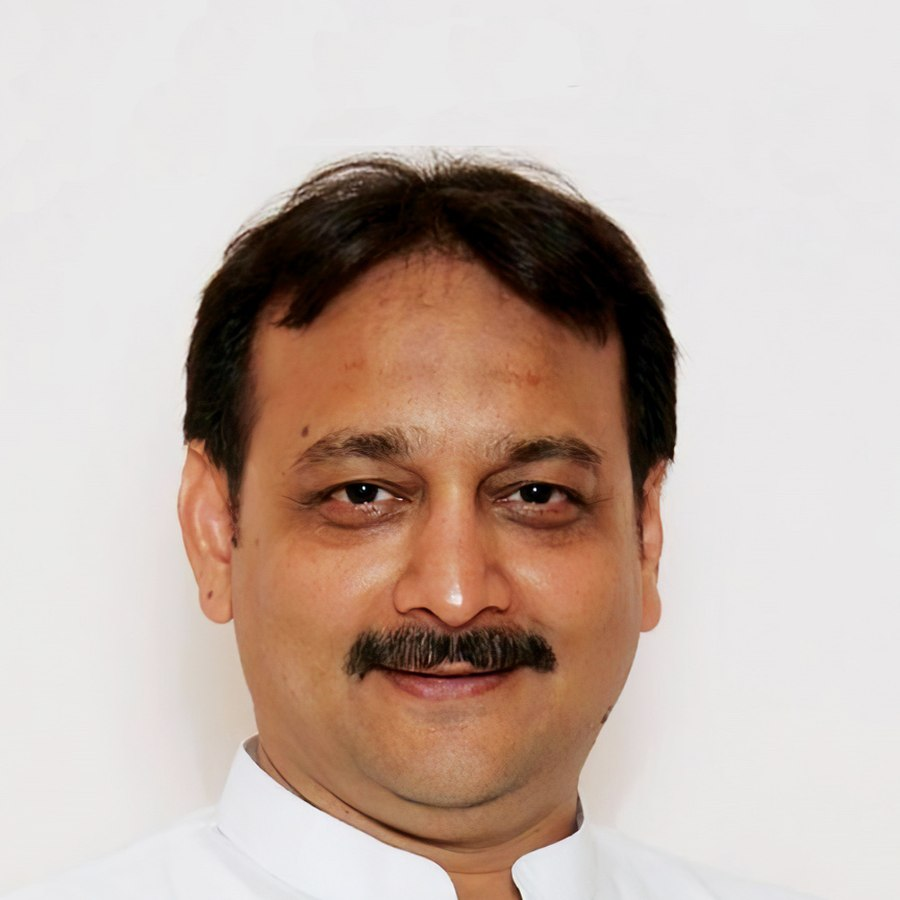
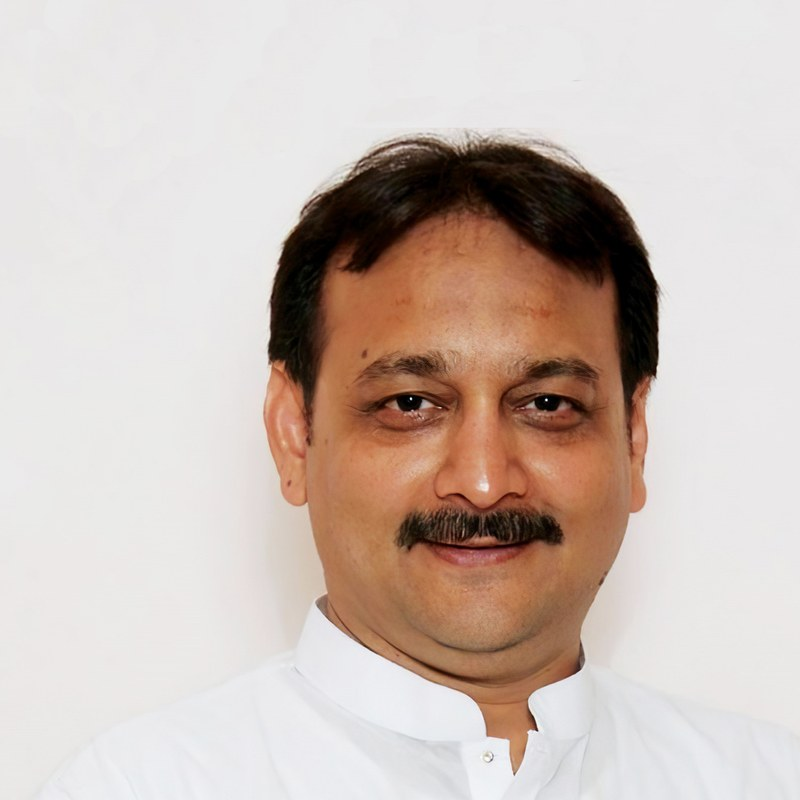
Add files via upload

diff --git a/index.html b/index.html
@@ -25,7 +25,7 @@
 <link href="https://fonts.googleapis.com/css2?family=IBM+Plex+Mono:wght@400;500&amp;family=Instrument+Serif:ital@0;1&amp;family=Poppins:wght@300;400;500&amp;display=swap" rel="stylesheet">
 <link rel="preload" as="image" href="assets/img/logos/rajputana-emblem-512.png">
 <link rel="stylesheet" href="assets/css/base.css?v=0ed642cb">
-<link rel="stylesheet" href="assets/css/home.css?v=5029057a">
+<link rel="stylesheet" href="assets/css/home.css?v=6fd46474">
 <noscript><style>[role="tabpanel"]{display:block!important}.switch__nav{display:none!important}.preloader{display:none!important}body.is-loading{overflow:visible!important}[data-reveal]{opacity:1!important;transform:none!important}</style></noscript>
 </head>
 
@@ -143,36 +143,32 @@
       <p class="principals__label">Currently distributing in India for</p>
       <div class="marquee" data-marquee>
         <ul class="marquee__track">
-          <li><img src="assets/img/partner-brands/cetaphil.png" alt="Cetaphil" data-fallback="text" loading="lazy" height="34"></li>
-          <li><img src="assets/img/partner-brands/sebamed.png" alt="Sebamed" data-fallback="text" loading="lazy" height="34"></li>
-          <li><img src="assets/img/partner-brands/bioderma.png" alt="Bioderma" data-fallback="text" loading="lazy" height="34"></li>
-          <li><img src="assets/img/partner-brands/minimalist.png" alt="Minimalist" data-fallback="text" loading="lazy" height="34"></li>
-          <li><img src="assets/img/partner-brands/loreal.png" alt="L&rsquo;Or&eacute;al" data-fallback="text" loading="lazy" height="34"></li>
-          <li><img src="assets/img/partner-brands/mothercare.png" alt="Mothercare" data-fallback="text" loading="lazy" height="34"></li>
-          <li><img src="assets/img/partner-brands/mothersparsh.png" alt="MotherSparsh" data-fallback="text" loading="lazy" height="34"></li>
-          <li><img src="assets/img/partner-brands/glenmark.png" alt="Glenmark" data-fallback="text" loading="lazy" height="34"></li>
-          <li><img src="assets/img/partner-brands/episoft.png" alt="Episoft" data-fallback="text" loading="lazy" height="34"></li>
-          <li><img src="assets/img/partner-brands/la-shield.png" alt="La Shield" data-fallback="text" loading="lazy" height="34"></li>
-          <li><img src="assets/img/partner-brands/adidas.png" alt="Adidas" data-fallback="text" loading="lazy" height="34"></li>
-          <li><img src="assets/img/partner-brands/david-beckham.png" alt="David Beckham" data-fallback="text" loading="lazy" height="34"></li>
-          <li><img src="assets/img/partner-brands/mercedes.png" alt="Mercedes" data-fallback="text" loading="lazy" height="34"></li>
-          <li><img src="assets/img/partner-brands/flaura-essentials.png" alt="Flaura Essentials" data-fallback="text" loading="lazy" height="34"></li>
+          <li><img src="assets/img/partner-brands/on-dark/cetaphil.png" alt="Cetaphil" data-fallback="text" loading="lazy" height="34"></li>
+          <li><img src="assets/img/partner-brands/on-dark/sebamed.png" alt="Sebamed" data-fallback="text" loading="lazy" height="34"></li>
+          <li><img src="assets/img/partner-brands/on-dark/bioderma.png" alt="Bioderma" data-fallback="text" loading="lazy" height="34"></li>
+          <li><img src="assets/img/partner-brands/on-dark/minimalist.png" alt="Minimalist" data-fallback="text" loading="lazy" height="34"></li>
+          <li><img src="assets/img/partner-brands/on-dark/loreal.png" alt="L&rsquo;Or&eacute;al" data-fallback="text" loading="lazy" height="34"></li>
+          <li><img src="assets/img/partner-brands/on-dark/mothercare.png" alt="Mothercare" data-fallback="text" loading="lazy" height="34"></li>
+          <li><img src="assets/img/partner-brands/on-dark/mothersparsh.png" alt="MotherSparsh" data-fallback="text" loading="lazy" height="34"></li>
+          <li><img src="assets/img/partner-brands/on-dark/glenmark.png" alt="Glenmark" data-fallback="text" loading="lazy" height="34"></li>
+          <li><img src="assets/img/partner-brands/on-dark/episoft.png" alt="Episoft" data-fallback="text" loading="lazy" height="34"></li>
+          <li><img src="assets/img/partner-brands/on-dark/adidas.png" alt="Adidas" data-fallback="text" loading="lazy" height="34"></li>
+          <li><img src="assets/img/partner-brands/on-dark/david-beckham.png" alt="David Beckham" data-fallback="text" loading="lazy" height="34"></li>
+          <li><img src="assets/img/partner-brands/on-dark/flaura-essentials.png" alt="Flaura Essentials" data-fallback="text" loading="lazy" height="34"></li>
         </ul>
         <ul class="marquee__track" aria-hidden="true">
-          <li><img src="assets/img/partner-brands/cetaphil.png" alt="Cetaphil" data-fallback="text" loading="lazy" height="34"></li>
-          <li><img src="assets/img/partner-brands/sebamed.png" alt="Sebamed" data-fallback="text" loading="lazy" height="34"></li>
-          <li><img src="assets/img/partner-brands/bioderma.png" alt="Bioderma" data-fallback="text" loading="lazy" height="34"></li>
-          <li><img src="assets/img/partner-brands/minimalist.png" alt="Minimalist" data-fallback="text" loading="lazy" height="34"></li>
-          <li><img src="assets/img/partner-brands/loreal.png" alt="L&rsquo;Or&eacute;al" data-fallback="text" loading="lazy" height="34"></li>
-          <li><img src="assets/img/partner-brands/mothercare.png" alt="Mothercare" data-fallback="text" loading="lazy" height="34"></li>
-          <li><img src="assets/img/partner-brands/mothersparsh.png" alt="MotherSparsh" data-fallback="text" loading="lazy" height="34"></li>
-          <li><img src="assets/img/partner-brands/glenmark.png" alt="Glenmark" data-fallback="text" loading="lazy" height="34"></li>
-          <li><img src="assets/img/partner-brands/episoft.png" alt="Episoft" data-fallback="text" loading="lazy" height="34"></li>
-          <li><img src="assets/img/partner-brands/la-shield.png" alt="La Shield" data-fallback="text" loading="lazy" height="34"></li>
-          <li><img src="assets/img/partner-brands/adidas.png" alt="Adidas" data-fallback="text" loading="lazy" height="34"></li>
-          <li><img src="assets/img/partner-brands/david-beckham.png" alt="David Beckham" data-fallback="text" loading="lazy" height="34"></li>
-          <li><img src="assets/img/partner-brands/mercedes.png" alt="Mercedes" data-fallback="text" loading="lazy" height="34"></li>
-          <li><img src="assets/img/partner-brands/flaura-essentials.png" alt="Flaura Essentials" data-fallback="text" loading="lazy" height="34"></li>
+          <li><img src="assets/img/partner-brands/on-dark/cetaphil.png" alt="Cetaphil" data-fallback="text" loading="lazy" height="34"></li>
+          <li><img src="assets/img/partner-brands/on-dark/sebamed.png" alt="Sebamed" data-fallback="text" loading="lazy" height="34"></li>
+          <li><img src="assets/img/partner-brands/on-dark/bioderma.png" alt="Bioderma" data-fallback="text" loading="lazy" height="34"></li>
+          <li><img src="assets/img/partner-brands/on-dark/minimalist.png" alt="Minimalist" data-fallback="text" loading="lazy" height="34"></li>
+          <li><img src="assets/img/partner-brands/on-dark/loreal.png" alt="L&rsquo;Or&eacute;al" data-fallback="text" loading="lazy" height="34"></li>
+          <li><img src="assets/img/partner-brands/on-dark/mothercare.png" alt="Mothercare" data-fallback="text" loading="lazy" height="34"></li>
+          <li><img src="assets/img/partner-brands/on-dark/mothersparsh.png" alt="MotherSparsh" data-fallback="text" loading="lazy" height="34"></li>
+          <li><img src="assets/img/partner-brands/on-dark/glenmark.png" alt="Glenmark" data-fallback="text" loading="lazy" height="34"></li>
+          <li><img src="assets/img/partner-brands/on-dark/episoft.png" alt="Episoft" data-fallback="text" loading="lazy" height="34"></li>
+          <li><img src="assets/img/partner-brands/on-dark/adidas.png" alt="Adidas" data-fallback="text" loading="lazy" height="34"></li>
+          <li><img src="assets/img/partner-brands/on-dark/david-beckham.png" alt="David Beckham" data-fallback="text" loading="lazy" height="34"></li>
+          <li><img src="assets/img/partner-brands/on-dark/flaura-essentials.png" alt="Flaura Essentials" data-fallback="text" loading="lazy" height="34"></li>
         </ul>
       </div>
     </div>
@@ -229,37 +225,37 @@
         <div class="switch__panel" id="pan-mt" role="tabpanel" aria-labelledby="ch-mt">
           <p class="switch__note">Chains where a listing is won once and defended every quarter.</p>
           <ul class="switch__list">
-            <li><img src="assets/img/partner-brands/dmart.png" alt="DMart" data-fallback="text" loading="lazy" height="26"></li><li><img src="assets/img/partner-brands/reliance-retail.png" alt="Reliance Retail" data-fallback="text" loading="lazy" height="26"></li><li><img src="assets/img/partner-brands/health-and-glow.png" alt="Health &amp; Glow" data-fallback="text" loading="lazy" height="26"></li><li><img src="assets/img/partner-brands/star-bazar.png" alt="Star Bazar" data-fallback="text" loading="lazy" height="26"></li><li><img src="assets/img/partner-brands/ratnadeep.png" alt="Ratnadeep" data-fallback="text" loading="lazy" height="26"></li><li><img src="assets/img/partner-brands/firstcry.png" alt="FirstCry" data-fallback="text" loading="lazy" height="26"></li><li><img src="assets/img/partner-brands/haiko.png" alt="Haiko" data-fallback="text" loading="lazy" height="26"></li><li><img src="assets/img/partner-brands/me-n-moms.png" alt="Me N Moms" data-fallback="text" loading="lazy" height="26"></li><li><img src="assets/img/partner-brands/metro-candc.png" alt="Metro C&amp;C" data-fallback="text" loading="lazy" height="26"></li><li><img src="assets/img/partner-brands/more.png" alt="More" data-fallback="text" loading="lazy" height="26"></li><li><img src="assets/img/partner-brands/pothys.png" alt="Pothys" data-fallback="text" loading="lazy" height="26"></li>
+            <li>DMart</li><li>Reliance Retail</li><li>Health &amp; Glow</li><li>Star Bazar</li><li>Ratnadeep</li><li>FirstCry</li><li>Haiko</li><li>Me N Moms</li><li>Metro C&amp;C</li><li>More</li><li>Pothys</li>
           </ul>
         </div>
         <div class="switch__panel" id="pan-ec" role="tabpanel" aria-labelledby="ch-ec" hidden>
           <p class="switch__note">Our deepest channel — catalogue, content, pricing and fill rate on fifteen platforms.</p>
           <ul class="switch__list">
-            <li><img src="assets/img/partner-brands/amazon.png" alt="Amazon" data-fallback="text" loading="lazy" height="26"></li><li><img src="assets/img/partner-brands/flipkart.png" alt="Flipkart" data-fallback="text" loading="lazy" height="26"></li><li><img src="assets/img/partner-brands/nykaa.png" alt="Nykaa" data-fallback="text" loading="lazy" height="26"></li><li><img src="assets/img/partner-brands/myntra.png" alt="Myntra" data-fallback="text" loading="lazy" height="26"></li><li><img src="assets/img/partner-brands/tira.png" alt="Tira" data-fallback="text" loading="lazy" height="26"></li><li><img src="assets/img/partner-brands/purplle.png" alt="Purplle" data-fallback="text" loading="lazy" height="26"></li><li><img src="assets/img/partner-brands/tata-cliq.png" alt="Tata Cliq" data-fallback="text" loading="lazy" height="26"></li><li><img src="assets/img/partner-brands/bigbasket.png" alt="BigBasket" data-fallback="text" loading="lazy" height="26"></li><li><img src="assets/img/partner-brands/hopscotch.png" alt="Hopscotch" data-fallback="text" loading="lazy" height="26"></li><li><img src="assets/img/partner-brands/pharmeasy.png" alt="PharmEasy" data-fallback="text" loading="lazy" height="26"></li><li><img src="assets/img/partner-brands/1mg.png" alt="1mg" data-fallback="text" loading="lazy" height="26"></li><li><img src="assets/img/partner-brands/smytten.png" alt="Smytten" data-fallback="text" loading="lazy" height="26"></li><li><img src="assets/img/partner-brands/paytm.png" alt="Paytm" data-fallback="text" loading="lazy" height="26"></li><li><img src="assets/img/partner-brands/dmart-ready.png" alt="DMart Ready" data-fallback="text" loading="lazy" height="26"></li><li><img src="assets/img/partner-brands/ferns-and-petals.png" alt="Ferns &amp; Petals" data-fallback="text" loading="lazy" height="26"></li>
+            <li>Amazon</li><li>Flipkart</li><li>Nykaa</li><li>Myntra</li><li>Tira</li><li>Purplle</li><li>Tata Cliq</li><li>BigBasket</li><li>Hopscotch</li><li>PharmEasy</li><li>1mg</li><li>Smytten</li><li>Paytm</li><li>DMart Ready</li><li>Ferns &amp; Petals</li>
           </ul>
         </div>
         <div class="switch__panel" id="pan-qc" role="tabpanel" aria-labelledby="ch-qc" hidden>
           <p class="switch__note">Ten-minute delivery, which rewrites how a personal-care SKU has to be packed and priced.</p>
           <ul class="switch__list">
-            <li><img src="assets/img/partner-brands/blinkit.png" alt="Blinkit" data-fallback="text" loading="lazy" height="26"></li><li><img src="assets/img/partner-brands/zepto.png" alt="Zepto" data-fallback="text" loading="lazy" height="26"></li><li><img src="assets/img/partner-brands/swiggy-instamart.png" alt="Swiggy Instamart" data-fallback="text" loading="lazy" height="26"></li>
+            <li>Blinkit</li><li>Zepto</li><li>Swiggy Instamart</li>
           </ul>
         </div>
         <div class="switch__panel" id="pan-ph" role="tabpanel" aria-labelledby="ch-ph" hidden>
           <p class="switch__note">Where dermo-cosmetic brands are actually recommended rather than browsed.</p>
           <ul class="switch__list">
-            <li><img src="assets/img/partner-brands/apollo-pharmacy.png" alt="Apollo Pharmacy" data-fallback="text" loading="lazy" height="26"></li><li><img src="assets/img/partner-brands/wellness-forever.png" alt="Wellness Forever" data-fallback="text" loading="lazy" height="26"></li><li><img src="assets/img/partner-brands/nobleplus.png" alt="NoblePlus" data-fallback="text" loading="lazy" height="26"></li><li><img src="assets/img/partner-brands/guardian-pharmacy.png" alt="Guardian Pharmacy" data-fallback="text" loading="lazy" height="26"></li>
+            <li>Apollo Pharmacy</li><li>Wellness Forever</li><li>NoblePlus</li><li>Guardian Pharmacy</li>
           </ul>
         </div>
         <div class="switch__panel" id="pan-gt" role="tabpanel" aria-labelledby="ch-gt" hidden>
           <p class="switch__note">The long tail. Beat plans, our own field team, delivery into every serviced outlet.</p>
           <ul class="switch__list">
-            <li><img src="assets/img/partner-brands/medical-stores.png" alt="Medical stores" data-fallback="text" loading="lazy" height="26"></li><li><img src="assets/img/partner-brands/baby-stores.png" alt="Baby stores" data-fallback="text" loading="lazy" height="26"></li><li><img src="assets/img/partner-brands/cosmetic-stores.png" alt="Cosmetic stores" data-fallback="text" loading="lazy" height="26"></li><li><img src="assets/img/partner-brands/general-stores.png" alt="General stores" data-fallback="text" loading="lazy" height="26"></li><li><img src="assets/img/partner-brands/supermarkets.png" alt="Supermarkets" data-fallback="text" loading="lazy" height="26"></li>
+            <li>Medical stores</li><li>Baby stores</li><li>Cosmetic stores</li><li>General stores</li><li>Supermarkets</li>
           </ul>
         </div>
         <div class="switch__panel" id="pan-in" role="tabpanel" aria-labelledby="ch-in" hidden>
           <p class="switch__note">Closed channels most distributors never open, with their own tendering and compliance.</p>
           <ul class="switch__list">
-            <li><img src="assets/img/partner-brands/csd-mdash-canteen-stores-department.png" alt="CSD &mdash; Canteen Stores Department" data-fallback="text" loading="lazy" height="26"></li><li><img src="assets/img/partner-brands/incs-mdash-indian-naval-canteen.png" alt="INCS &mdash; Indian Naval Canteen" data-fallback="text" loading="lazy" height="26"></li><li><img src="assets/img/partner-brands/corporate-gifting.png" alt="Corporate gifting" data-fallback="text" loading="lazy" height="26"></li>
+            <li>CSD &mdash; Canteen Stores Department</li><li>INCS &mdash; Indian Naval Canteen</li><li>Corporate gifting</li>
           </ul>
         </div>
         </div>
@@ -636,47 +632,47 @@
         <div class="cat">
           <h3>Dermo-cosmetics &amp; skincare</h3>
           <ul>
-            <li class="live"><img src="assets/img/partner-brands/sebamed.png" alt="Sebamed" data-fallback="text" loading="lazy" height="24"></li><li class="live"><img src="assets/img/partner-brands/cetaphil.png" alt="Cetaphil" data-fallback="text" loading="lazy" height="24"></li><li class="live"><img src="assets/img/partner-brands/bioderma.png" alt="Bioderma" data-fallback="text" loading="lazy" height="24"></li>
-            <li class="live"><img src="assets/img/partner-brands/avene.png" alt="Av&egrave;ne" data-fallback="text" loading="lazy" height="24"></li><li class="live"><img src="assets/img/partner-brands/minimalist.png" alt="Minimalist" data-fallback="text" loading="lazy" height="24"></li><li class="live"><img src="assets/img/partner-brands/beauty-concepts.png" alt="Beauty Concepts" data-fallback="text" loading="lazy" height="24"></li>
-            <li><img src="assets/img/partner-brands/loreal-paris.png" alt="L&rsquo;Or&eacute;al Paris" data-fallback="text" loading="lazy" height="24"></li><li><img src="assets/img/partner-brands/himalaya.png" alt="Himalaya" data-fallback="text" loading="lazy" height="24"></li>
+            <li class="live">Sebamed</li><li class="live">Cetaphil</li><li class="live">Bioderma</li>
+            <li class="live">Av&egrave;ne</li><li class="live">Minimalist</li><li class="live">Beauty Concepts</li>
+            <li>L&rsquo;Or&eacute;al Paris</li><li>Himalaya</li>
           </ul>
         </div>
 
         <div class="cat">
           <h3>Mother &amp; baby</h3>
           <ul>
-            <li class="live"><img src="assets/img/partner-brands/medela.png" alt="Medela" data-fallback="text" loading="lazy" height="24"></li><li class="live"><img src="assets/img/partner-brands/pigeon.png" alt="Pigeon" data-fallback="text" loading="lazy" height="24"></li>
-            <li><img src="assets/img/partner-brands/johnson-and-johnson.png" alt="Johnson &amp; Johnson" data-fallback="text" loading="lazy" height="24"></li><li><img src="assets/img/partner-brands/chicco.png" alt="Chicco" data-fallback="text" loading="lazy" height="24"></li><li><img src="assets/img/partner-brands/libero.png" alt="Libero" data-fallback="text" loading="lazy" height="24"></li><li><img src="assets/img/partner-brands/snuggy.png" alt="Snuggy" data-fallback="text" loading="lazy" height="24"></li>
+            <li class="live">Medela</li><li class="live">Pigeon</li>
+            <li>Johnson &amp; Johnson</li><li>Chicco</li><li>Libero</li><li>Snuggy</li>
           </ul>
         </div>
 
         <div class="cat">
           <h3>Pharmaceuticals</h3>
           <ul>
-            <li><img src="assets/img/partner-brands/cipla.png" alt="Cipla" data-fallback="text" loading="lazy" height="24"></li><li><img src="assets/img/partner-brands/pfizer.png" alt="Pfizer" data-fallback="text" loading="lazy" height="24"></li><li><img src="assets/img/partner-brands/ranbaxy.png" alt="Ranbaxy" data-fallback="text" loading="lazy" height="24"></li><li><img src="assets/img/partner-brands/aventis.png" alt="Aventis" data-fallback="text" loading="lazy" height="24"></li><li><img src="assets/img/partner-brands/gsk.png" alt="GSK" data-fallback="text" loading="lazy" height="24"></li>
-            <li><img src="assets/img/partner-brands/alembic.png" alt="Alembic" data-fallback="text" loading="lazy" height="24"></li><li><img src="assets/img/partner-brands/micro-labs.png" alt="Micro Labs" data-fallback="text" loading="lazy" height="24"></li><li><img src="assets/img/partner-brands/usv.png" alt="USV" data-fallback="text" loading="lazy" height="24"></li><li><img src="assets/img/partner-brands/natco.png" alt="Natco" data-fallback="text" loading="lazy" height="24"></li>
-            <li><img src="assets/img/partner-brands/midascare.png" alt="Midascare" data-fallback="text" loading="lazy" height="24"></li><li><img src="assets/img/partner-brands/dhootapapeshwar.png" alt="Dhootapapeshwar" data-fallback="text" loading="lazy" height="24"></li>
+            <li>Cipla</li><li>Pfizer</li><li>Ranbaxy</li><li>Aventis</li><li>GSK</li>
+            <li>Alembic</li><li>Micro Labs</li><li>USV</li><li>Natco</li>
+            <li>Midascare</li><li>Dhootapapeshwar</li>
           </ul>
         </div>
 
         <div class="cat">
           <h3>FMCG &amp; home care</h3>
           <ul>
-            <li><img src="assets/img/partner-brands/godrej.png" alt="Godrej" data-fallback="text" loading="lazy" height="24"></li><li><img src="assets/img/partner-brands/good-knight.png" alt="Good Knight" data-fallback="text" loading="lazy" height="24"></li><li><img src="assets/img/partner-brands/top-ramen.png" alt="Top Ramen" data-fallback="text" loading="lazy" height="24"></li><li><img src="assets/img/partner-brands/ravalgaon.png" alt="Ravalgaon" data-fallback="text" loading="lazy" height="24"></li><li><img src="assets/img/partner-brands/paras.png" alt="Paras" data-fallback="text" loading="lazy" height="24"></li><li><img src="assets/img/partner-brands/sunheri.png" alt="Sunheri" data-fallback="text" loading="lazy" height="24"></li>
+            <li>Godrej</li><li>Good Knight</li><li>Top Ramen</li><li>Ravalgaon</li><li>Paras</li><li>Sunheri</li>
           </ul>
         </div>
 
         <div class="cat">
           <h3>Telecom &amp; electronics</h3>
           <ul>
-            <li><img src="assets/img/partner-brands/vodafone.png" alt="Vodafone" data-fallback="text" loading="lazy" height="24"></li><li><img src="assets/img/partner-brands/idea.png" alt="Idea" data-fallback="text" loading="lazy" height="24"></li><li><img src="assets/img/partner-brands/samsung.png" alt="Samsung" data-fallback="text" loading="lazy" height="24"></li><li><img src="assets/img/partner-brands/videocon.png" alt="Videocon" data-fallback="text" loading="lazy" height="24"></li><li><img src="assets/img/partner-brands/bpl.png" alt="BPL" data-fallback="text" loading="lazy" height="24"></li>
+            <li>Vodafone</li><li>Idea</li><li>Samsung</li><li>Videocon</li><li>BPL</li>
           </ul>
         </div>
 
         <div class="cat">
           <h3>Direct selling &amp; specialist</h3>
           <ul>
-            <li><img src="assets/img/partner-brands/amway.png" alt="Amway" data-fallback="text" loading="lazy" height="24"></li><li><img src="assets/img/partner-brands/britt-worldwide.png" alt="Britt Worldwide" data-fallback="text" loading="lazy" height="24"></li><li><img src="assets/img/partner-brands/conybio-healthcare.png" alt="Conybio Healthcare" data-fallback="text" loading="lazy" height="24"></li>
+            <li>Amway</li><li>Britt Worldwide</li><li>Conybio Healthcare</li>
           </ul>
         </div>
       </div>

diff --git a/assets/css/home.css b/assets/css/home.css
@@ -214,7 +214,7 @@
   flex-wrap: wrap;
   justify-content: center;
   align-items: center;
-  gap: clamp(1.4rem, 4.5vw, 3.8rem);
+  gap: clamp(1rem, 2.5vw, 2rem);
   list-style: none;
   padding: 0;
 }
@@ -476,8 +476,6 @@
   display: block;
   margin-bottom: 0.6rem;
 }
-.leader__photo { aspect-ratio: 1 / 1; }
-.leader__photo img { object-position: center 18%; }
 
 /* ==========================================================================
    5. TRACK RECORD
@@ -555,8 +553,6 @@
 .leaders { display: grid; grid-template-columns: repeat(2, 1fr); gap: clamp(1.5rem, 3vw, 2.25rem); }
 @media (max-width: 820px) { .leaders { grid-template-columns: 1fr; } }
 .leader { border: 1px solid var(--line); display: flex; flex-direction: column; background: var(--field); min-width: 0; }
-.leader__photo { aspect-ratio: 4 / 3; background: var(--ivory-3); display: grid; place-items: center; overflow: hidden; }
-.leader__photo img { width: 100%; height: 100%; object-fit: cover; object-position: top center; }
 .leader__body { padding: clamp(1.5rem, 3vw, 2.2rem); flex: 1; }
 .leader__body h3 { font-size: clamp(1.12rem, 1.5vw, 1.35rem); }
 .leader__role {
@@ -741,7 +737,7 @@
   display: flex;
   flex-shrink: 0;
   align-items: center;
-  gap: clamp(1.4rem, 4.5vw, 3.8rem);
+  gap: clamp(1rem, 2.5vw, 2rem);
   list-style: none;
   margin: 0;
   padding: 0;
@@ -758,7 +754,7 @@
   transition: color 0.25s var(--ease);
 }
 .marquee__track li:hover { color: var(--gold); }
-@keyframes marquee { to { transform: translateX(calc(-100% - clamp(1.4rem, 4.5vw, 3.8rem))); } }
+@keyframes marquee { to { transform: translateX(calc(-100% - clamp(1rem, 2.5vw, 2rem))); } }
 @media (prefers-reduced-motion: reduce) {
   .marquee { flex-wrap: wrap; justify-content: center; mask-image: none; -webkit-mask-image: none; }
   .marquee__track { animation: none; flex-wrap: wrap; justify-content: center; }
@@ -847,8 +843,6 @@
 .division__fig em { font-style: normal; opacity: 0.45; margin-inline: 0.25em; }
 
 /* Portraits are real photographs now — frame them properly */
-.leader__photo { background: var(--ivory-3); }
-.leader__photo img { object-position: center 22%; }
 
 /* ==========================================================================
    CHANNEL SWITCHER — six channels, partner counts of 15 / 11 / 5 / 4 / 3 / 3.
@@ -1114,8 +1108,12 @@
 
 /* Logo slots: an <img> that fails becomes clean type, so nothing looks broken */
 .marquee__track img, .switch__list img, .cat img { display: block; width: auto; }
-.marquee__track img { max-height: 34px; filter: brightness(0) invert(1); opacity: 0.8; }
-.switch__list img, .cat img { max-height: 26px; }
+.marquee__track img { height: 46px; width: auto; opacity: 0.9; transition: opacity 0.25s var(--ease); }
+.marquee__track li:hover img { opacity: 1; }
+.switch__list img { max-height: 24px; }
+/* Logos in the portfolio wall sit at the same optical weight as the text names */
+.cat img { max-height: 22px; }
+.cat li.live img { max-height: 24px; }
 .logo-text { display: inline-block; }
 .marquee__track .logo-text { font-family: var(--font-display); font-size: clamp(0.98rem,1.4vw,1.26rem); font-weight: 500; color: rgba(236,231,221,0.76); white-space: nowrap; }
 .switch__list .logo-text { font-family: var(--font-display); font-size: 0.92rem; font-weight: 500; color: var(--text); }
@@ -1176,3 +1174,23 @@
 .imap__swatch--hq { background: var(--gold-deep); width: 11px; height: 11px; }
 
 .presence__list .zones { margin-top: 0; }
+
+/* --- Leadership portraits (single source of truth) ----------------------
+   The photographs are square. The frame is square. So object-fit has nothing
+   to crop and no face can be clipped. Three competing rules used to set this,
+   and the 4/3 one won, cutting the top off every head. */
+.leader__photo {
+  aspect-ratio: 1 / 1;
+  background: var(--ivory-3);
+  overflow: hidden;
+}
+.leader__photo img {
+  width: 100%;
+  height: 100%;
+  object-fit: cover;
+  object-position: center center;
+  display: block;
+}
+
+/* Logo slots: keep every mark on one optical baseline regardless of its own
+   aspect ratio, and cap the very wide wordmarks so none dominates the row. */
